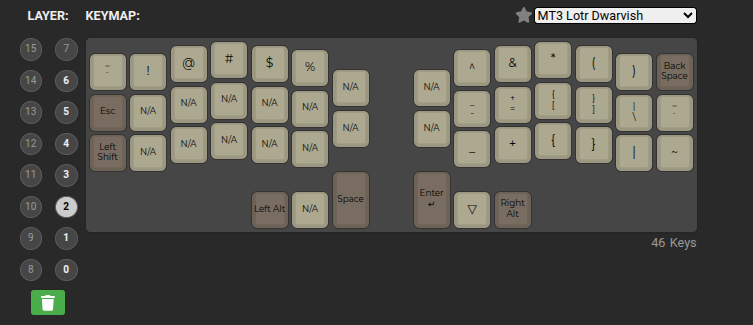
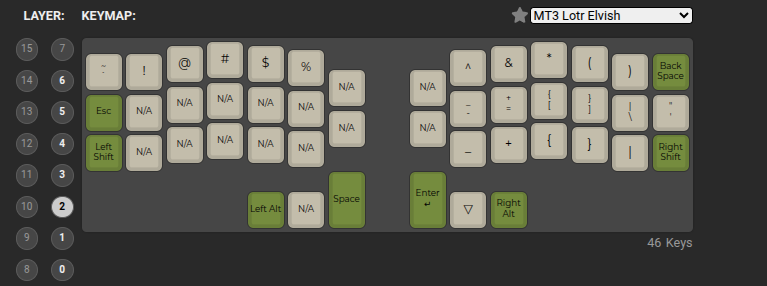
Изменения в версии v1
- добавлен delete
- перемещен в слое 2 `"`

diff --git a/README.md b/README.md
@@ -4,7 +4,14 @@
 
 Слой с символами почти полностью взят из дефолтной настройки. Так же слой 1 где распаложены цифры и стрелки
 
-# v1.0
+# v1.1
+
+Изменения:
+
+- в слое 2 добавлен `"` в нативном месте
+    ![alt text](./.screenshots/image-7.png)
+- в слое 2 добавлен с права shift
+- в слое 3 сверху с права добавлен delete
 
 __screenshots__
 
